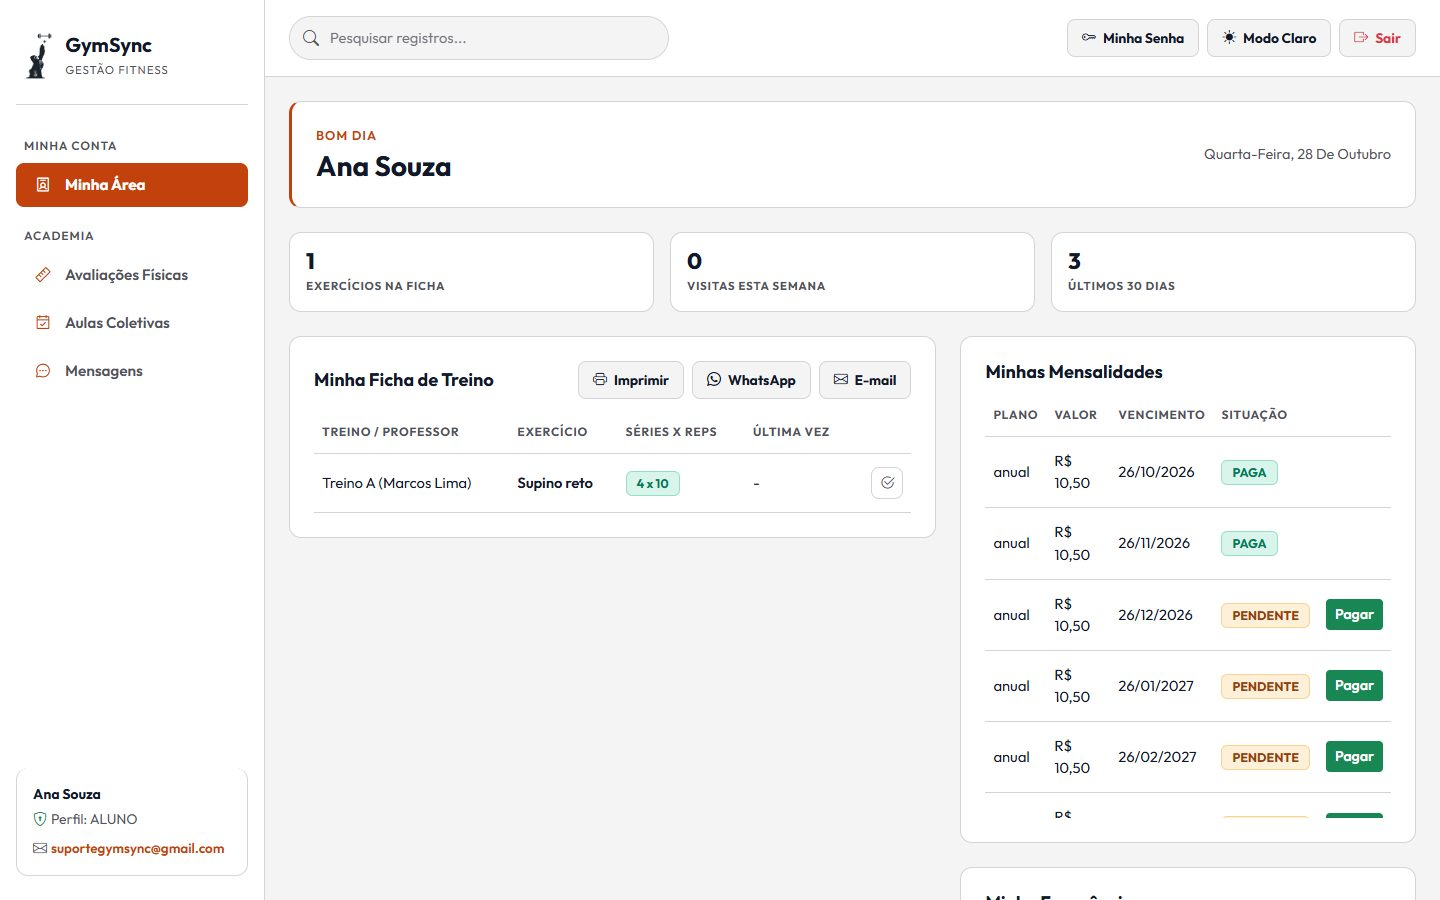
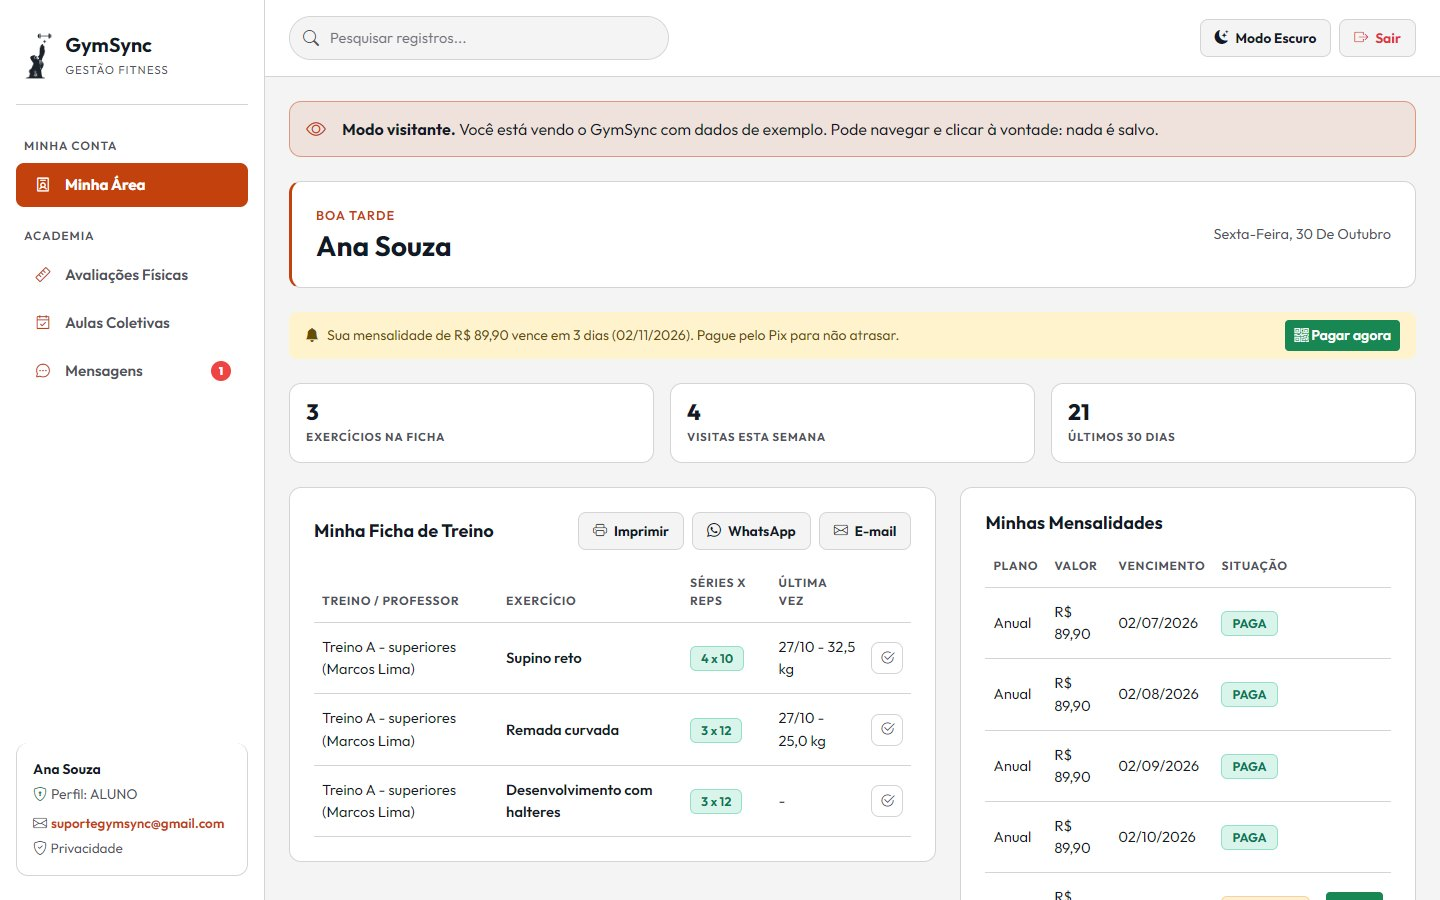
README e imagens: site no ar, visitante, telas novas e 88 testes
- Link do site publicado e botão de visitante no topo.
- Segurança, LGPD e publicação nos destaques; perfis com as funções novas.
- Prints novos: painel, área do aluno, relatórios, acompanhamento do professor e calendário de frequência.

diff --git a/README.md b/README.md
@@ -4,6 +4,8 @@ Sistema web de gestão de academias feito em **Java com Spring Boot**: cadastros
 
 Desenvolvi este sistema para um trabalho acadêmico do curso de Análise e Desenvolvimento de Sistemas: modelagem, regras de negócio, back-end, telas e testes.
 
+**Experimente agora:** [gymsync-ucfj.onrender.com](https://gymsync-ucfj.onrender.com), com o botão "Testar como visitante" (dados de exemplo, só leitura). O site roda em plano gratuito e dorme sem uso, então a primeira visita pode levar cerca de um minuto para abrir.
+
 ![Java](https://img.shields.io/badge/Java_25-ED8B00?style=flat-square&logo=openjdk&logoColor=white)
 ![Spring Boot](https://img.shields.io/badge/Spring_Boot_4-6DB33F?style=flat-square&logo=springboot&logoColor=white)
 ![MySQL](https://img.shields.io/badge/MySQL_8-4479A1?style=flat-square&logo=mysql&logoColor=white)
@@ -15,9 +17,11 @@ Desenvolvi este sistema para um trabalho acadêmico do curso de Análise e Desen
 ## Destaques
 
 - **Regras de negócio que rodam sozinhas.** A matrícula gera todas as mensalidades; a mensalidade vira atrasada quando o vencimento passa; a catraca só libera quem está ativo, com matrícula ativa e nada em atraso, e mostra o motivo quando bloqueia.
-- **Acesso por perfil, testado.** Um interceptador separa o que admin, professor e aluno podem abrir, inclusive digitando a URL. São 44 testes automatizados, e um deles falha se alguém criar uma rota nova e esquecer de protegê-la.
+- **Acesso por perfil, testado.** O Spring Security separa o que admin, professor e aluno podem abrir, inclusive digitando a URL. Tudo fica bloqueado por padrão, e a regra de cada rota fica em `RegrasAcesso`, com testes automatizados.
 - **Página de apresentação interativa.** Abaixo do login fica um "Quem somos" com um halter em 3D (Three.js), animações de rolagem (GSAP) e réplicas das telas do sistema que dá para clicar: liberar a catraca, pagar uma mensalidade, reservar aula.
-- **Interface pensada para o dia a dia.** Tema claro e escuro, funciona no computador e no celular, roda offline (bibliotecas servidas pelo próprio projeto).
+- **Interface pensada para o dia a dia.** Tema claro e escuro, funciona no computador e no celular e pode ser instalada no celular como app (PWA). As bibliotecas ficam no próprio projeto, então roda offline no computador.
+- **Publicado na internet.** Roda no Render (Docker) com MySQL na Aiven, HTTPS, senhas e chaves em variáveis do servidor (nunca no código) e usuário próprio no banco, sem o administrador do serviço.
+- **LGPD.** Política de privacidade, aceite do aluno no primeiro acesso e "Baixar meus dados" em JSON.
 
 ## Telas
 
@@ -29,6 +33,10 @@ Desenvolvi este sistema para um trabalho acadêmico do curso de Análise e Desen
 | "Quem somos": halter 3D caindo na frente do título | A jornada da matrícula ao treino, passo a passo |
 | ![Demonstrações clicáveis](docs/img/demonstracoes.jpg) | ![Menu de cada perfil](docs/img/perfis.jpg) |
 | Demonstrações clicáveis das telas | O menu que cada perfil enxerga |
+| ![Relatórios do administrador](docs/img/relatorios.jpg) | ![Acompanhamento do professor](docs/img/acompanhamento-professor.jpg) |
+| Relatórios: comparação com o mês passado e exportação em planilha | Professor: alunos sumidos e adesão ao treino na semana |
+| ![Calendário de frequência do aluno](docs/img/calendario-frequencia.jpg) | |
+| Aluno: calendário com os dias treinados no mês | |
 
 *Os nomes e o CPF nas imagens são de exemplo.*
 
@@ -36,9 +44,11 @@ Desenvolvi este sistema para um trabalho acadêmico do curso de Análise e Desen
 
 | Perfil | O que faz |
 | :--- | :--- |
-| **Administrador** | Cadastra alunos, professores e planos; faz e cancela matrículas; confirma pagamentos; controla a catraca e os equipamentos; acompanha relatórios e avisos. |
-| **Professor** | Monta as fichas de treino; registra avaliações físicas; cria aulas coletivas; conversa com os alunos e envia a ficha por WhatsApp ou e-mail. |
-| **Aluno** | Vê e imprime o treino e registra a carga; acompanha frequência, mensalidades e avaliações; informa pagamentos; reserva aulas; fala com o professor. |
+| **Administrador** | Cadastra alunos, professores e planos; faz e cancela matrículas; confirma pagamentos; controla a catraca e os equipamentos; acompanha relatórios e avisos, compara o mês com o anterior, exporta planilhas (CSV) e consulta o histórico de ações. |
+| **Professor** | Monta e copia fichas de treino; registra avaliações físicas; cria aulas coletivas; vê os alunos sumidos (10 dias ou mais sem catraca) e a adesão ao treino na semana; conversa com os alunos e envia a ficha por WhatsApp ou e-mail. |
+| **Aluno** | Vê e imprime o treino e registra a carga; acompanha frequência (calendário), mensalidades e avaliações (evolução); informa pagamentos; reserva aulas; fala com o professor; baixa os próprios dados (LGPD). |
+
+Quem não tem login pode usar o botão **Testar como visitante**: entra com dados de exemplo, só para leitura.
 
 ## Regras de negócio
 
@@ -58,12 +68,12 @@ Aplicação MVC com páginas montadas no servidor:
 
 ```text
 src/main/java/com/example/sistema/academia
-├── config       # interceptador de acesso por perfil e BCrypt
-├── controller   # login, cadastros e financeiro, treinos, aulas, avaliações, equipamentos, mensagens
+├── config       # Spring Security (acesso por perfil, CSRF, CSP), regras de acesso, sessão
+├── controller   # login, cadastros e financeiro, treinos, aulas, avaliações, equipamentos, mensagens, privacidade
 ├── dto          # dados de apoio para as telas (avisos, gráficos, contatos)
-├── model        # 15 entidades JPA
+├── model        # entidades JPA (alunos, planos, matrículas, mensalidades, treinos, aulas, histórico etc.)
 ├── repository   # Spring Data JPA (consultas derivadas do nome do método)
-├── service      # situação das mensalidades, avisos, relatórios, exclusão em cascata, ficha
+├── service      # situação das mensalidades, avisos, relatórios, frequência, evolução, exclusão em cascata, ficha, recuperação de senha
 ├── util         # validação de CPF, e-mail e telefone
 └── view         # formatação de dinheiro, datas e status para os templates
 ```
@@ -76,13 +86,16 @@ src/main/java/com/example/sistema/academia
 
 O que já existe:
 
-- Senhas guardadas com BCrypt.
-- Acesso separado por perfil, coberto por testes (`AutenticacaoInterceptorTest` e `RotasProtegidasTest`).
+- Spring Security: tudo bloqueado por padrão, proteção CSRF e Content Security Policy rígida.
+- Senhas guardadas com BCrypt; senhas fortes opcionais.
+- Limite de tentativas de login (bloqueio temporário por conta e por IP).
+- Recuperação de senha por link de uso único enviado por e-mail (opcional).
 - Ações que alteram dados só por `POST`, com confirmação antes de excluir.
-- Validação dos dados também no servidor.
-- Sessão só por cookie e senha do banco fora do repositório (`application.properties` no `.gitignore`).
+- Validação dos dados também no servidor, e campos aceitos limitados no cadastro.
+- Sessão só por cookie; senha do banco fora do repositório (`application.properties` no `.gitignore`).
+- Política de privacidade e aceite do aluno no primeiro acesso.
 
-O que falta antes de colocar na internet (próxima etapa do projeto): trocar o interceptador pelo Spring Security, ligar a proteção CSRF, limitar tentativas de login, recuperar senha por link enviado ao e-mail e usar HTTPS.
+Publicado na internet com HTTPS pela plataforma de hospedagem.
 
 ## Como rodar
 
@@ -104,8 +117,10 @@ cd GymSync
 **Testes de acesso** (não precisam do banco):
 
 ```bash
-./mvnw test -Dtest=AutenticacaoInterceptorTest,RotasProtegidasTest
+./mvnw test -Dtest=RegrasAcessoTest,LimiteTentativasServiceTest,SenhaServiceTest,AuthControllerTest,CamposPermitidosTest,VisitanteServiceTest,FrequenciaServiceTest,EvolucaoServiceTest,AvisoVencimentoTest,AcompanhamentoServiceTest,ExportacaoServiceTest,SituacaoServiceTest,HistoricoConfigTest
 ```
+
+São 88 testes; não precisam do banco. `SistemaAcademiaApplicationTests` precisa do MySQL ligado.
 
 | Erro | Solução |
 | :--- | :--- |
@@ -116,12 +131,12 @@ cd GymSync
 
 ## Próximos passos
 
-- [ ] Spring Security, CSRF e limite de tentativas de login
-- [ ] Recuperação de senha por e-mail
+- [x] Spring Security, CSRF e limite de tentativas de login
+- [x] Recuperação de senha por e-mail
+- [x] Publicação na nuvem e aplicativo para o aluno (PWA)
 - [ ] Pagamento real (Pix ou cartão) com um provedor de pagamento
 - [ ] Avisos por e-mail ou WhatsApp e chat em tempo real
 - [ ] Leitor biométrico e catraca de verdade
-- [ ] Publicação na nuvem e aplicativo para o aluno
 
 ## Autoria
 
